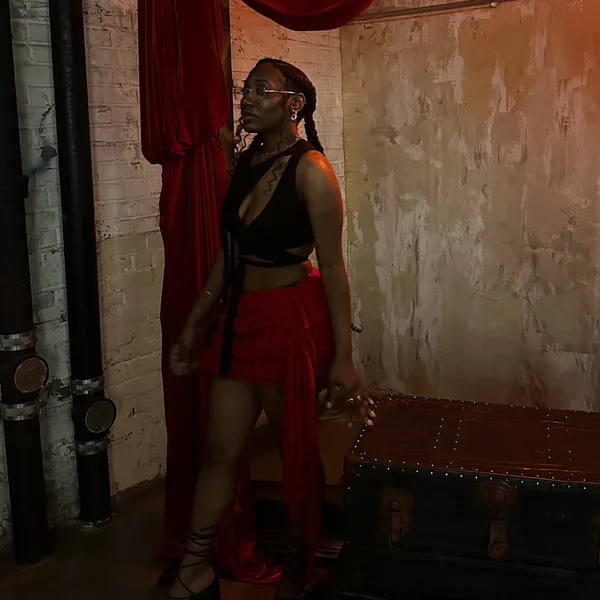
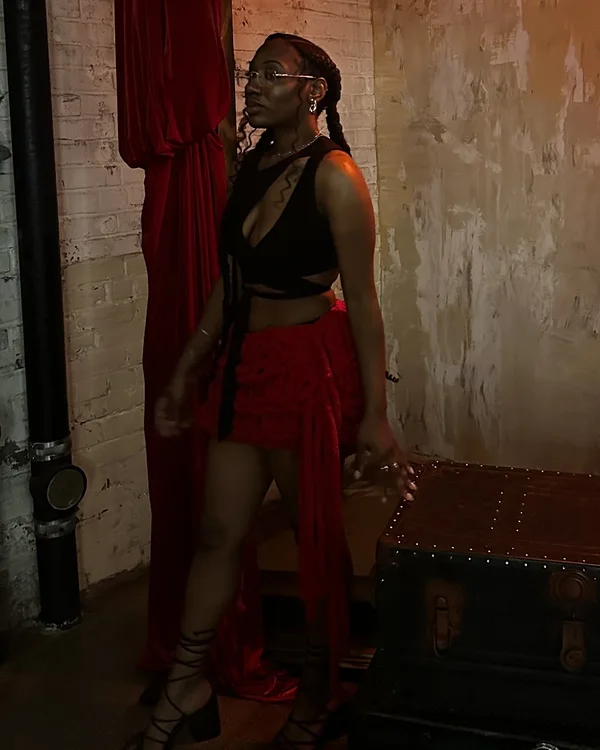
Preview: add chunky knit skirt to Apparel
Claude-Session: https://claude.ai/code/session_01U4KW6ojkeLuDGZiacLkWzE

diff --git a/index.html b/index.html
@@ -220,8 +220,8 @@
   .row .go { display: inline-block; margin-top: 8px; color: var(--gold); }
 
   .garments { display: grid; grid-template-columns: 1fr 1fr; gap: 12px; margin: 16px 0 6px; }
-  .garments figure:first-child { grid-column: 1 / -1; }
   .garments img { width: 100%; height: auto; aspect-ratio: 1; object-fit: cover; border: 1px solid var(--line); }
+  .garments .tall img { aspect-ratio: 4 / 5; }
   .garments figcaption { margin-top: 8px; font: italic 400 17px/1.2 var(--serif); }
   .garments figcaption .caps { display: block; margin-bottom: 4px; font: 500 10px/1.2 var(--sans); letter-spacing: .28em; text-transform: uppercase; color: var(--gold); font-style: normal; }
 
@@ -433,7 +433,8 @@
     <div role="tabpanel" id="p-apparel" aria-labelledby="t-apparel" hidden>
       <p class="panel-intro">Clothing I design and make, from handmade pieces to streetwear.</p>
       <div class="garments">
-        <figure><img src="img/apparel-skirt.webp" alt="Raven wearing a red skirt she made" width="600" height="600" loading="lazy" decoding="async"><figcaption><span class="caps">Handmade</span>The red skirt</figcaption></figure>
+        <figure class="tall"><img src="img/apparel-skirt.webp" alt="Raven wearing a red skirt she made" width="600" height="750" loading="lazy" decoding="async"><figcaption><span class="caps">Handmade</span>The red skirt</figcaption></figure>
+        <figure class="tall"><img src="img/apparel-knit.webp" alt="Raven wearing a chunky knit skirt she made" width="600" height="750" loading="lazy" decoding="async"><figcaption><span class="caps">Handmade</span>The chunky knit skirt</figcaption></figure>
         <figure><img src="img/apparel-nxxxa.webp" alt="Burgundy NXXXA crewneck sweatshirt mockup" width="600" height="600" loading="lazy" decoding="async"><figcaption><span class="caps">Streetwear</span>NXXXA crewneck</figcaption></figure>
         <figure><img src="img/apparel-osage.webp" alt="Black Philadelphia Osage Avenue 1985 sweatshirt mockup" width="600" height="600" loading="lazy" decoding="async"><figcaption><span class="caps">Streetwear</span>Osage Avenue 1985</figcaption></figure>
       </div>
